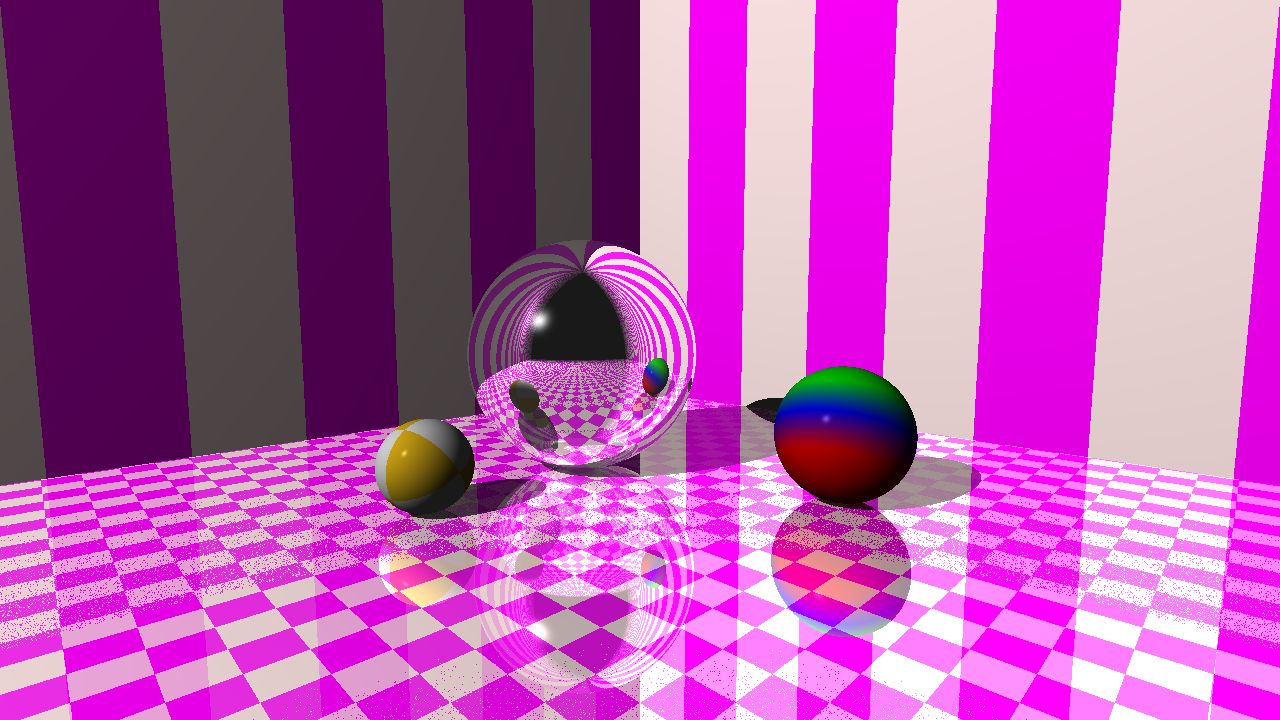
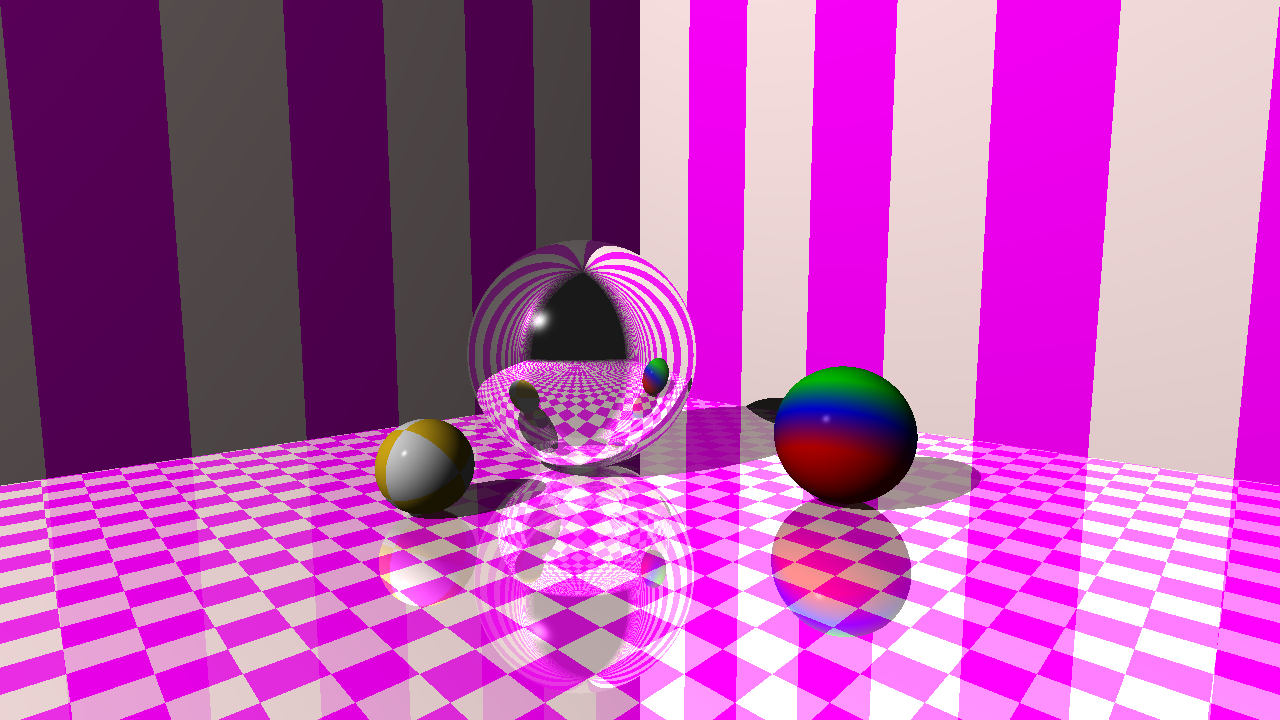
New checker rash problem if use point in light method

diff --git a/ray_tracer/src/material/pattern/checker.rs b/ray_tracer/src/material/pattern/checker.rs
@@ -14,18 +14,13 @@ impl Pattern {
         let x = Self::convert(point.x);
         let y = Self::convert(point.y);
         let z = Self::convert(point.z);
-        if (x + y + z) % 2 == 0 { a } else { b }.clone()
+        if (x+y+z) % 2 == 0 { a } else { b }.clone()
     }
 
-    /// Not quite sure why, but without this, a checkered scene contains rash marks
-    const RASH_FIX:f32 = f32::EPSILON * 128.;
-
+    /// This complex conversion is to avoid some rash effect when the values are
+    /// Bouncing near to a boundary. E.g. commonly seen on a plane with y=0
     fn convert(f: f32) -> i32 {
-        let mut i = (f + 0.5).round().floor() as i32;
-        if i < 0 {
-         // i = i.abs() + 1;
-        }
-        i
+        ((f * 100000.).round() / 100000.).floor() as i32
     }
 }
 

diff --git a/demo-lib/src/test_scenes/glass_sphere_with_air.rs b/demo-lib/src/test_scenes/glass_sphere_with_air.rs
@@ -30,11 +30,11 @@ impl TestScene for GlassSphereWithAir {
 
         let mut sphere = Shape::new_sphere_transformed(Matrix4x4::scale_all(5.));
         sphere.material = Material::glass();
-        world.add(sphere);
+        // world.add(sphere);
 
         let mut bubble = Shape::new_sphere_transformed(Matrix4x4::scale_all(2.5));
         bubble.material = Material::air();
-        world.add(bubble);
+        // world.add(bubble);
 
         world
     }

diff --git a/demo/src/main.rs b/demo/src/main.rs
@@ -9,7 +9,7 @@ use ray_tracer::canvas::Size;
 fn main() {
     let size = Size::HD_720P;
     Chapter7Scene::render_scene(size);
-    // GlassSphereWithAir::render_scene(size);
+    GlassSphereWithAir::render_scene(size);
     // Cubes::render_scene(size);
     // CubeOfSpheres::render_scene(size);
     // Grid::render_scene(size);
